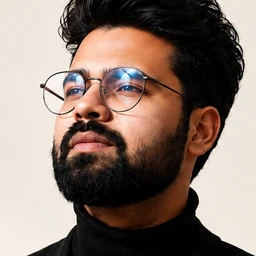
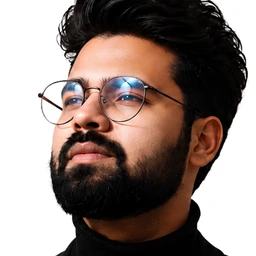
Hero v11: apply exact hex colors and spacing values, new white-bg photo
Client provided exact design tokens instead of a flattened image to
match by eye — used them precisely instead of approximating:

- Colors: --paper updated to the exact #FFF7D3 (was an approximated
  #fffff0), added --card-white (#FAFAFA) and --off-white (#EBF1F5) as
  new tokens, applied to the floating stat cards/bottom bar (card-white)
  and the decorative white elements — logo mark, arrow-icon circle
  (off-white). --signal-deep (#AB1509) and --ink (#010B13) already
  matched exactly, confirming the color system itself was correct.
- Spacing: card corner radius 16px -> 20px, card width standardized to
  150px (was a responsive 144/160px split), card padding to 32px, and
  the bottom stats bar gap to 24px, per the client's supplied values.
- Photo: swapped in the new white-background photo the client sent
  (same pose/crop as before, background changed from cream to white).
  Removed the now-irrelevant "warm amber seam wash" decorative gradient
  since the photo is no longer amber-toned.
- Confirmed 20,000+ stays as the Qualified Leads figure per client
  confirmation (a later mockup revision showed 1,205+, but the client
  explicitly confirmed 20,000+ is correct going forward).

Still open: client didn't specify exact font names or an icon pack (the
response listed these as categories without values) — kept the existing
Fraunces/Inter/JetBrains Mono stack and Lucide icons since nothing else
was specified, flagged this explicitly rather than assuming it's settled.

diff --git a/src/components/sections/Hero.tsx b/src/components/sections/Hero.tsx
@@ -62,7 +62,7 @@ function Headline() {
           <PremiumPill variant="signal">₹250Cr+</PremiumPill>
         </RevealIn>
         <RevealIn delay={1.7}>
-          <span className="flex h-12 w-12 shrink-0 items-center justify-center rounded-full bg-white shadow-[0_12px_28px_-12px_rgba(1,11,19,0.3)] sm:h-14 sm:w-14">
+          <span className="flex h-12 w-12 shrink-0 items-center justify-center rounded-full bg-off-white shadow-[0_12px_28px_-12px_rgba(1,11,19,0.3)] sm:h-14 sm:w-14">
             <ArrowUpRight className="h-5 w-5 text-signal" />
           </span>
         </RevealIn>
@@ -131,7 +131,7 @@ function StatCard({
   return (
     <div
       className={cn(
-        "rounded-2xl border border-white/60 bg-[var(--paper)]/95 px-4 py-3.5 shadow-[0_18px_40px_-18px_rgba(1,11,19,0.4)] backdrop-blur-xl",
+        "rounded-[20px] border border-white/60 bg-card-white p-8 shadow-[0_18px_40px_-18px_rgba(1,11,19,0.4)]",
         className
       )}
     >
@@ -139,7 +139,7 @@ function StatCard({
         {icon}
       </div>
       <p className="font-display text-xl font-semibold text-ink sm:text-2xl">{value}</p>
-      <p className="mt-0.5 max-w-[9.5rem] text-[11px] leading-snug text-muted-on-light">{label}</p>
+      <p className="mt-0.5 text-[11px] leading-snug text-muted-on-light">{label}</p>
     </div>
   );
 }
@@ -173,18 +173,6 @@ function DesktopVisual() {
       aria-hidden={false}
       className="pointer-events-none absolute inset-y-0 right-0 z-10 hidden w-[58%] lg:block xl:w-[54%]"
     >
-      {/* thin warm wash right at the seam, so the photo's amber tone
-          reads as a deliberate transition rather than a hard color cut */}
-      <div
-        aria-hidden
-        className="absolute inset-y-0 left-0 -z-10 w-1/2"
-        style={{
-          background:
-            "radial-gradient(60% 100% at 0% 50%, color-mix(in srgb, var(--warm-glow) 12%, transparent), transparent 75%)",
-          filter: "blur(40px)",
-        }}
-      />
-
       {/* decorative orbit ring, echoing the diagnostic-instrument motif */}
       <div
         aria-hidden
@@ -217,7 +205,7 @@ function DesktopVisual() {
       <Connector className="right-[8%] top-0 h-[4%]" />
       <Node className="right-[calc(8%-12px)] top-[3%]" />
 
-      <RevealIn delay={1.9} className="absolute left-[14%] top-[15%] w-36 lg:pointer-events-auto xl:w-40">
+      <RevealIn delay={1.9} className="absolute left-[14%] top-[15%] w-[150px] lg:pointer-events-auto">
         <StatCard
           icon={<BarChart3 className="h-4 w-4" />}
           value="₹50Cr+"
@@ -225,7 +213,7 @@ function DesktopVisual() {
         />
       </RevealIn>
 
-      <RevealIn delay={2.05} className="absolute right-[4%] top-[4%] w-36 lg:pointer-events-auto xl:w-40">
+      <RevealIn delay={2.05} className="absolute right-[4%] top-[4%] w-[150px] lg:pointer-events-auto">
         <StatCard
           icon={<PieChart className="h-4 w-4" />}
           value="20x"
@@ -235,7 +223,7 @@ function DesktopVisual() {
 
       <RevealIn
         delay={2.2}
-        className="absolute right-0 top-[42%] w-36 lg:pointer-events-auto xl:w-40"
+        className="absolute right-0 top-[42%] w-[150px] lg:pointer-events-auto"
       >
         <StatCard
           icon={<Users className="h-4 w-4" />}
@@ -244,7 +232,7 @@ function DesktopVisual() {
         />
       </RevealIn>
 
-      <RevealIn delay={2.35} className="absolute left-[13%] top-[52%] w-36 lg:pointer-events-auto xl:w-40">
+      <RevealIn delay={2.35} className="absolute left-[13%] top-[52%] w-[150px] lg:pointer-events-auto">
         <StatCard
           icon={<PieChart className="h-4 w-4" />}
           value="₹6Cr+"
@@ -254,7 +242,7 @@ function DesktopVisual() {
 
       <RevealIn
         delay={2.5}
-        className="absolute right-[8%] bottom-[6%] w-36 lg:pointer-events-auto xl:w-40"
+        className="absolute right-[8%] bottom-[6%] w-[150px] lg:pointer-events-auto"
       >
         <StatCard
           icon={<TrendingUp className="h-4 w-4" />}
@@ -317,9 +305,9 @@ function BottomStatsBar() {
   return (
     <RevealIn
       delay={2.7}
-      className="glass relative z-0 mt-14 hidden max-w-[min(56%,880px)] rounded-[2rem] px-7 py-6 lg:flex"
+      className="relative z-0 mt-14 hidden max-w-[min(56%,880px)] rounded-[20px] border border-white/60 bg-card-white p-8 shadow-[0_18px_40px_-18px_rgba(1,11,19,0.4)] lg:flex"
     >
-      <div className="flex w-full items-center justify-between gap-5">
+      <div className="flex w-full items-center justify-between gap-6">
         {bottomStats.map((stat) => (
           <div key={stat.label} className="flex items-center gap-2.5">
             <span className="flex h-11 w-11 shrink-0 items-center justify-center rounded-full bg-paper-dim text-ink/70">

diff --git a/src/app/globals.css b/src/app/globals.css
@@ -7,11 +7,13 @@
   --ink: #010b13;
   --ink-soft: #0b141c;
   --ink-elevated: #16202a;
-  --paper: #fffff0;
+  --paper: #fff7d3;
   --paper-dim: #eae8e1;
   --surface: #fffdf7;
+  --card-white: #fafafa;
+  --off-white: #ebf1f5;
   --text-dark: #010b13;
-  --text-light: #fffff0;
+  --text-light: #fff7d3;
   --muted-on-dark: #8f8f96;
   --muted-on-light: #55555c;
 
@@ -46,6 +48,8 @@
   --color-paper: var(--paper);
   --color-paper-dim: var(--paper-dim);
   --color-surface: var(--surface);
+  --color-card-white: var(--card-white);
+  --color-off-white: var(--off-white);
   --color-signal: var(--signal);
   --color-signal-deep: var(--signal-deep);
   --color-signal-soft: var(--signal-soft);
